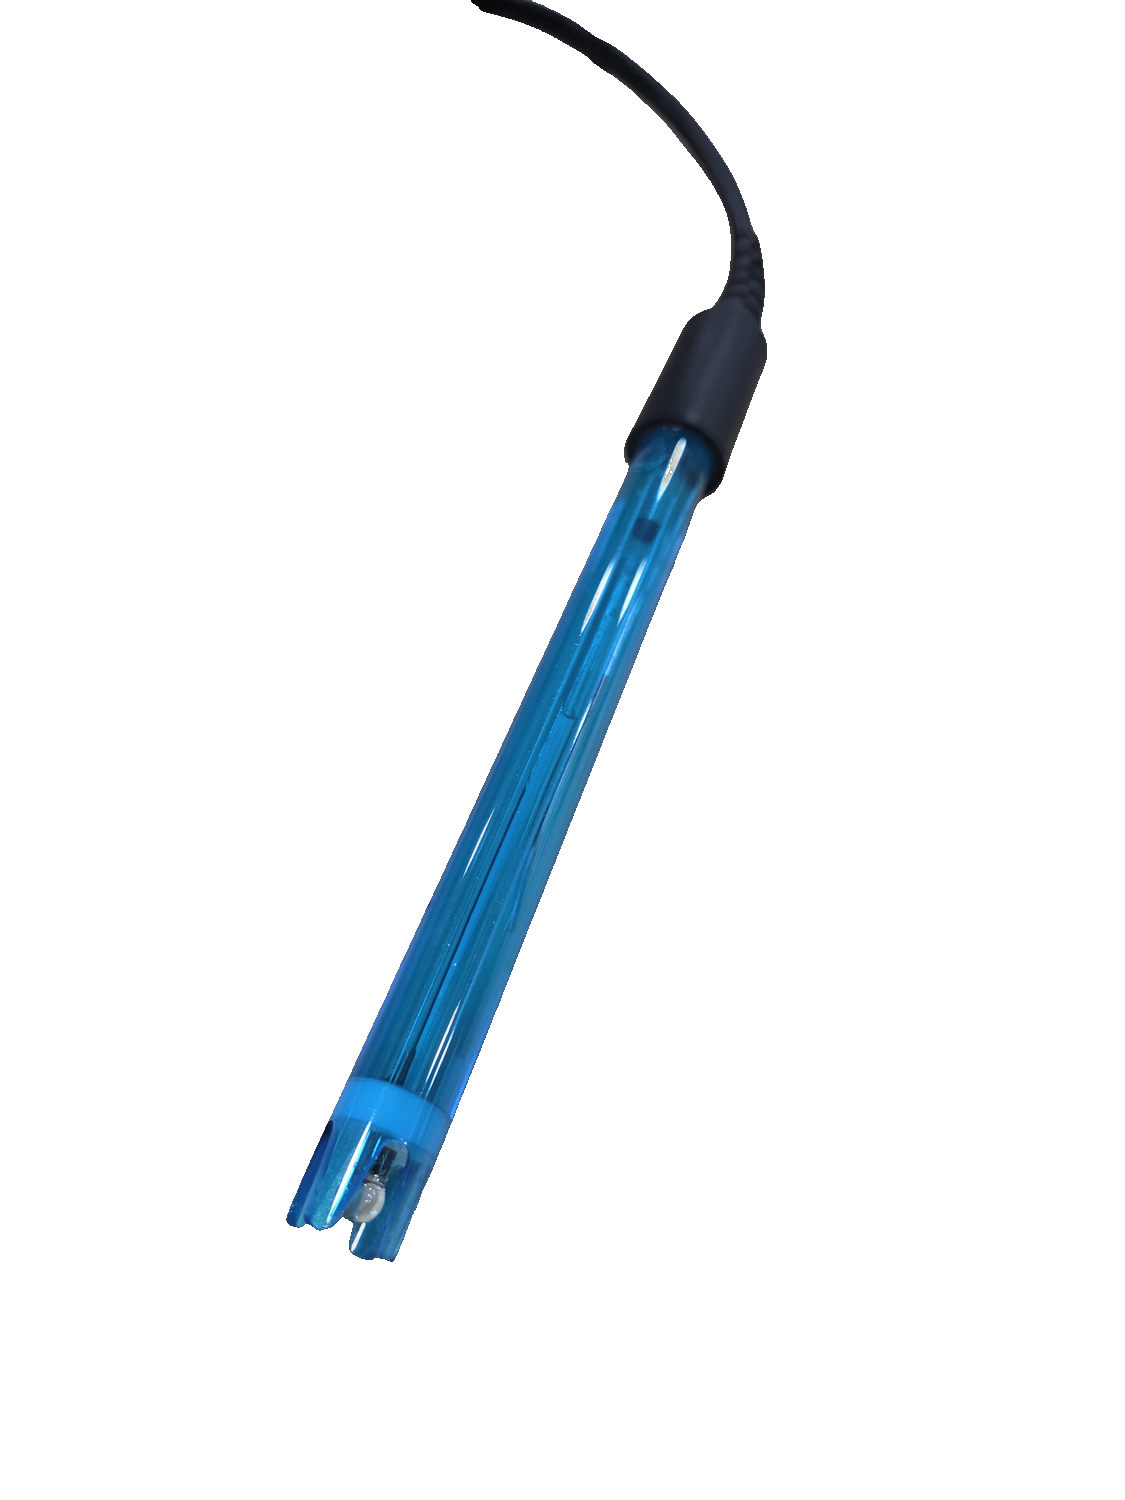
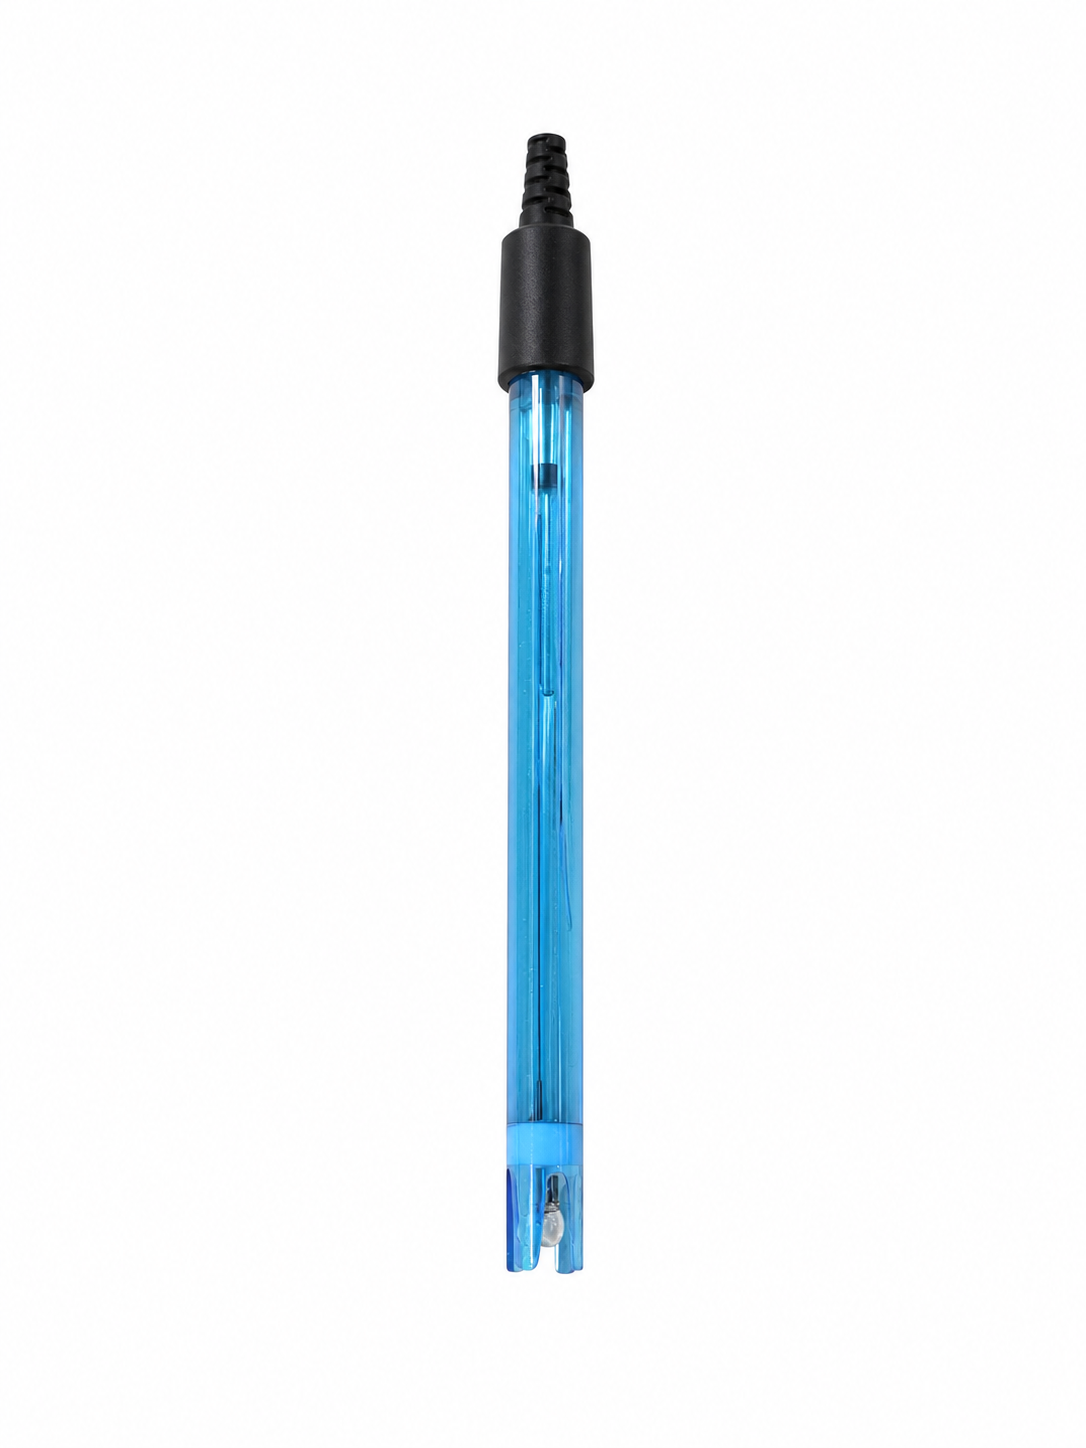
Refine product imagery and smart farm lineup

Changed region(s): [[0.2431, 0.0, 0.6989, 0.9012]]

diff --git a/src/lib/products.ts b/src/lib/products.ts
@@ -335,6 +335,46 @@ Its graphite disc sensing element, K=1 cell constant and PT1000 temperature comp
     gallery: ['/images/products/wbec-cond-main.png'],
   },
   {
+    slug: 'ph-ec-board',
+    model: 'WB-PES',
+    name: 'pH·EC 센서 인터페이스 보드',
+    nameEn: 'pH & EC Sensor Interface Board',
+    category: '스마트팜 인터페이스',
+    categoryEn: 'Smart Farm Interface',
+    group: 'smartfarm',
+    application: ['smart_farm'],
+    featured: false,
+    shortDescription: '스마트팜 제어반에 pH·EC 센서 신호를 연결하는 내장형 인터페이스 보드',
+    shortDescriptionEn: 'Embedded interface board connecting pH and EC sensor signals to smart-farm control panels',
+    description: `WB-PES는 스마트팜의 pH·EC 센서를 현장 제어반과 연결하기 위한 센서 인터페이스 보드입니다.
+센서 입력과 온도 보정 신호를 받아 제어 시스템에서 사용할 수 있도록 구성하며, 펌프 및 양액 제어반 내부에 설치할 수 있습니다.`,
+    descriptionEn: `The WB-PES connects pH and EC sensors with smart-farm control panels.
+It receives sensor and temperature-compensation signals for use by the control system and can be installed inside pump or nutrient-solution control panels.`,
+    features: [
+      'pH·EC 센서 입력 인터페이스',
+      'PT1000 온도 보정 신호 연동',
+      '제어반 내장형 보드 구조',
+      '펌프 및 양액 제어 시스템 연동',
+      '현장 구성에 맞춘 통신·출력 지원',
+    ],
+    featuresEn: [
+      'pH and EC sensor input interface',
+      'PT1000 temperature-compensation input',
+      'Embedded control-panel board format',
+      'Pump and nutrient-control system integration',
+      'Communication and outputs configured for the site',
+    ],
+    specs: [
+      { label: '센서 입력', labelEn: 'Sensor Inputs', value: 'pH / EC', valueEn: 'pH / EC' },
+      { label: '온도 입력', labelEn: 'Temperature Input', value: 'PT1000', valueEn: 'PT1000' },
+      { label: '설치 방식', labelEn: 'Installation', value: '제어반 내장형', valueEn: 'Embedded in control panel' },
+      { label: '연동 구성', labelEn: 'Integration', value: '펌프·양액 제어 시스템', valueEn: 'Pump and nutrient-control systems' },
+      { label: '통신 및 출력', labelEn: 'Communication & Output', value: '현장 구성 사양', valueEn: 'Site-configured' },
+    ],
+    image: '/images/products/wb-pes-main.png',
+    gallery: ['/images/products/wb-pes-main.png'],
+  },
+  {
     slug: 'filter-drain',
     model: 'WB-FD',
     name: '스마트 여과드레인 시스템',
@@ -435,8 +475,8 @@ Its transparent acrylic body allows visual inspection and can be configured to m
       { label: '호환 기종', labelEn: 'Compatible Model', value: 'WBCL10', valueEn: 'WBCL10' },
       { label: '전극 재질', labelEn: 'Electrode Material', value: 'Gold / Silver', valueEn: 'Gold / Silver' },
     ],
-    image: '/images/products/wbcl10-electrode-kit.svg',
-    gallery: ['/images/products/wbcl10-electrode-kit.svg'],
+    image: '/images/products/wbcl10-electrode-kit.png',
+    gallery: ['/images/products/wbcl10-electrode-kit.png'],
     price: '가격 문의',
     priceEn: 'Contact for price',
     purchasable: true,
@@ -463,8 +503,8 @@ Its transparent acrylic body allows visual inspection and can be configured to m
       { label: '호환 기종', labelEn: 'Compatible Model', value: 'WBTU10', valueEn: 'WBTU10' },
       { label: '광원', labelEn: 'Light Source', value: '텅스텐 램프, 580 nm', valueEn: 'Tungsten lamp, 580 nm' },
     ],
-    image: '/images/products/wbtu10-lamp-kit.svg',
-    gallery: ['/images/products/wbtu10-lamp-kit.svg'],
+    image: '/images/products/wbtu10-lamp-kit.png',
+    gallery: ['/images/products/wbtu10-lamp-kit.png'],
     price: '가격 문의',
     priceEn: 'Contact for price',
     purchasable: true,

diff --git a/src/app/[locale]/products/[slug]/ProductDetailClient.tsx b/src/app/[locale]/products/[slug]/ProductDetailClient.tsx
@@ -15,11 +15,12 @@ const imageSizing: Record<string, string> = {
   wbcl10: 'h-[370px] w-[82%] sm:h-[490px]',
   wbph10: 'h-[330px] w-[42%] sm:h-[430px]',
   wbec10: 'h-[300px] w-[34%] sm:h-[400px]',
-  'wbph-pbs01': 'h-[350px] w-[68%] sm:h-[470px]',
-  'wbec-cond': 'h-[350px] w-[68%] sm:h-[470px]',
-  'sampling-tank': 'h-[350px] w-[76%] sm:h-[460px]',
-  'wbcl10-electrode-kit': 'h-[300px] w-[68%] sm:h-[390px]',
-  'wbtu10-lamp-kit': 'h-[300px] w-[68%] sm:h-[390px]',
+  'wbph-pbs01': 'h-[360px] w-[56%] sm:h-[475px]',
+  'wbec-cond': 'h-[360px] w-[56%] sm:h-[475px]',
+  'ph-ec-board': 'h-[280px] w-[88%] sm:h-[370px]',
+  'sampling-tank': 'h-[360px] w-[82%] sm:h-[470px]',
+  'wbcl10-electrode-kit': 'h-[300px] w-[86%] sm:h-[400px]',
+  'wbtu10-lamp-kit': 'h-[300px] w-[86%] sm:h-[400px]',
 }
 
 export default function ProductDetailClient({ product }: { product: Product }) {
@@ -91,7 +92,7 @@ export default function ProductDetailClient({ product }: { product: Product }) {
                 <span className="text-[#8c7200]">{product.model}</span>
                 <span className="text-[#7a8380]">{isKo ? product.category : product.categoryEn}</span>
               </div>
-              <h1 className="mt-5 text-4xl font-bold leading-[1.18] tracking-normal text-[#151a19] lg:text-5xl">{title}</h1>
+              <h1 className="mt-5 break-keep text-4xl font-bold leading-[1.18] tracking-normal text-[#151a19] lg:text-5xl">{title}</h1>
               <p className="mt-6 text-base leading-8 text-[#68716f]">{isKo ? product.shortDescription : product.shortDescriptionEn}</p>
 
               <dl className="mt-9 border-t border-[#aeb6b3]">
@@ -132,7 +133,7 @@ export default function ProductDetailClient({ product }: { product: Product }) {
         <div className="container-custom grid gap-14 lg:grid-cols-[0.82fr_1.18fr] lg:gap-20">
           <div>
             <div className="text-xs font-bold uppercase text-[#8c7200]">{t('overview')}</div>
-            <h2 className="mt-4 text-3xl font-bold tracking-normal text-[#151a19]">{title}</h2>
+            <h2 className="mt-4 break-keep text-3xl font-bold tracking-normal text-[#151a19]">{title}</h2>
           </div>
           <div>
             <p className="whitespace-pre-line text-base leading-8 text-[#596361]" style={{ wordBreak: 'keep-all' }}>{description}</p>

diff --git a/src/components/products/ProductGrid.tsx b/src/components/products/ProductGrid.tsx
@@ -17,8 +17,8 @@ const groupCopy = {
   smartfarm: {
     ko: '스마트팜 pH·EC 센서',
     en: 'Smart Farm pH & EC Sensors',
-    descriptionKo: '양액과 관수 수질 관리를 위한 소형 pH·전기전도도 전극',
-    descriptionEn: 'Compact pH and conductivity electrodes for nutrient solution and irrigation water',
+    descriptionKo: '양액과 관수 수질 관리를 위한 pH·EC 센서와 제어반 인터페이스',
+    descriptionEn: 'pH and conductivity sensors with a control-panel interface for nutrient solution and irrigation water',
   },
   system: {
     ko: '여과드레인 시스템',
@@ -83,7 +83,7 @@ export default function ProductGrid({ products }: { products: Product[] }) {
                 <div className="text-xs text-[#8a9390]">{String(groupProducts.length).padStart(2, '0')}</div>
               </div>
 
-              <div className={`grid border-l border-t border-[#d7dcda] sm:grid-cols-2 ${group === 'instrumentation' ? 'lg:grid-cols-3' : 'lg:grid-cols-2'}`}>
+              <div className={`grid border-l border-t border-[#d7dcda] sm:grid-cols-2 ${group === 'instrumentation' || group === 'smartfarm' || group === 'accessory' ? 'lg:grid-cols-3' : 'lg:grid-cols-2'}`}>
                 {groupProducts.map((product) => (
                   <ProductCard key={product.slug} product={product} />
                 ))}

diff --git a/src/components/products/ProductCard.tsx b/src/components/products/ProductCard.tsx
@@ -10,14 +10,15 @@ import type { Product } from '@/lib/products'
 const imageSizing: Record<string, string> = {
   wbsc10: 'h-[72%] w-[72%]',
   wbtu10: 'h-[84%] w-[82%]',
-  wbcl10: 'h-[86%] w-[82%]',
+  wbcl10: 'h-[84%] w-[82%]',
   wbph10: 'h-[62%] w-[42%]',
   wbec10: 'h-[54%] w-[35%]',
-  'wbph-pbs01': 'h-[78%] w-[68%]',
-  'wbec-cond': 'h-[78%] w-[68%]',
-  'sampling-tank': 'h-[78%] w-[72%]',
-  'wbcl10-electrode-kit': 'h-[65%] w-[65%]',
-  'wbtu10-lamp-kit': 'h-[65%] w-[65%]',
+  'wbph-pbs01': 'h-[82%] w-[56%]',
+  'wbec-cond': 'h-[82%] w-[56%]',
+  'ph-ec-board': 'h-[72%] w-[86%]',
+  'sampling-tank': 'h-[82%] w-[78%]',
+  'wbcl10-electrode-kit': 'h-[74%] w-[82%]',
+  'wbtu10-lamp-kit': 'h-[74%] w-[82%]',
 }
 
 export default function ProductCard({ product, className }: { product: Product; className?: string }) {

diff --git a/src/components/home/ProductHighlight.tsx b/src/components/home/ProductHighlight.tsx
@@ -8,8 +8,8 @@ import { getFeaturedProducts } from '@/lib/products'
 
 const imageSizing: Record<string, string> = {
   wbsc10: 'h-[70%] w-[78%]',
-  wbtu10: 'h-[86%] w-[84%]',
-  wbcl10: 'h-[88%] w-[86%]',
+  wbtu10: 'h-[87%] w-[85%]',
+  wbcl10: 'h-[87%] w-[85%]',
   wbph10: 'h-[61%] w-[54%]',
   wbec10: 'h-[55%] w-[48%]',
 }
